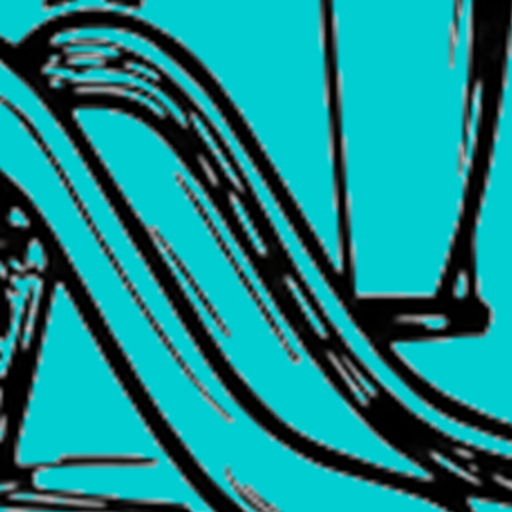
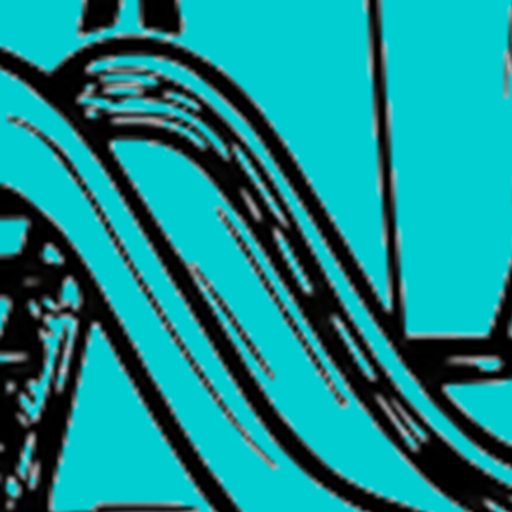
Udpating advertising screen and security

diff --git a/server/scripts/syncWebsiteAppIcon.js b/server/scripts/syncWebsiteAppIcon.js
@@ -5,6 +5,7 @@
  *
  * Outputs:
  * - `playplace-app-icon.png`: square app-style icon for marketing surfaces
+ * - `play-spotter-site-icon.png`: padded square icon for the website header
  * - `play-spotter-favicon.png`: transparent foreground mark for favicon usage
  * - `play-spotter-nav-logo.png`: header lockup for website nav usage
  *
@@ -18,6 +19,7 @@ const sharp = require('sharp');
 
 const REPO_ROOT = path.join(__dirname, '..', '..');
 const OUT_FULL = path.join(REPO_ROOT, 'website', 'public', 'playplace-app-icon.png');
+const OUT_SITE_SQUARE = path.join(REPO_ROOT, 'website', 'public', 'play-spotter-site-icon.png');
 const OUT_FAVICON = path.join(REPO_ROOT, 'website', 'public', 'play-spotter-favicon.png');
 const OUT_NAV_LOGO = path.join(REPO_ROOT, 'website', 'public', 'play-spotter-nav-logo.png');
 const RES = path.join(REPO_ROOT, 'compose-app', 'composeApp', 'src', 'androidMain', 'res', 'mipmap-xxxhdpi');
@@ -28,6 +30,7 @@ const LUCHT_PLAY_PLACE_FINDER = path.join(REPO_ROOT, '..', '..', 'lucht-applicat
 const BG = { r: 0, g: 206, b: 209 };
 const TRIM_THRESHOLD = 14;
 const BRANDING_FOREGROUND_ZOOM = 3.2;
+const WEBSITE_SQUARE_SCALE = 0.78;
 
 function hasBranding1024() {
   return fs.existsSync(FG1024) && fs.existsSync(BG1024);
@@ -56,6 +59,25 @@ async function buildBrandingAppIconPngBuffer(size) {
     .toBuffer();
 
   return sharp(body).resize(size, size, { fit: 'fill' }).png().toBuffer();
+}
+
+async function buildWebsiteSquareIconPngBuffer(size) {
+  const appIcon = await buildBrandingAppIconPngBuffer(size);
+  const innerSize = Math.round(size * WEBSITE_SQUARE_SCALE);
+  return sharp(appIcon)
+    .resize(innerSize, innerSize, {
+      fit: 'contain',
+      background: { r: 0, g: 0, b: 0, alpha: 0 },
+    })
+    .extend({
+      top: Math.floor((size - innerSize) / 2),
+      bottom: Math.ceil((size - innerSize) / 2),
+      left: Math.floor((size - innerSize) / 2),
+      right: Math.ceil((size - innerSize) / 2),
+      background: { r: 0, g: 0, b: 0, alpha: 0 },
+    })
+    .png()
+    .toBuffer();
 }
 
 async function buildBrandingForegroundMarkBuffer(size) {
@@ -210,8 +232,10 @@ async function main() {
 
   if (hasBranding1024()) {
     const appIconBuf = await buildBrandingAppIconPngBuffer(size);
+    const siteSquareBuf = await buildWebsiteSquareIconPngBuffer(size);
     const markBuf = await buildBrandingForegroundMarkBuffer(size);
     await fs.promises.writeFile(OUT_FULL, appIconBuf);
+    await fs.promises.writeFile(OUT_SITE_SQUARE, siteSquareBuf);
     await fs.promises.writeFile(OUT_FAVICON, markBuf);
     const navLogoPath = pickNavLogoPath();
     if (navLogoPath) {
@@ -221,10 +245,12 @@ async function main() {
       'syncWebsiteAppIcon: wrote',
       path.relative(REPO_ROOT, OUT_FULL),
       ',',
+      path.relative(REPO_ROOT, OUT_SITE_SQUARE),
+      ',',
       path.relative(REPO_ROOT, OUT_FAVICON),
       'and',
       path.relative(REPO_ROOT, OUT_NAV_LOGO),
-      'from branding/android-launcher-res (adaptive icon + transparent mark + nav logo)',
+      'from branding/android-launcher-res (adaptive icon + padded website icon + transparent mark + nav logo)',
     );
     copyPlayIconToLuchtMarketing();
     return;
@@ -244,6 +270,21 @@ async function main() {
   } else {
     await writeFullLockupSquare(OUT_FULL, fullPath, size);
     console.log('syncWebsiteAppIcon: wrote', OUT_FULL, 'from', path.relative(REPO_ROOT, fullPath));
+    await sharp(OUT_FULL)
+      .resize(Math.round(size * WEBSITE_SQUARE_SCALE), Math.round(size * WEBSITE_SQUARE_SCALE), {
+        fit: 'contain',
+        background: { r: 0, g: 0, b: 0, alpha: 0 },
+      })
+      .extend({
+        top: Math.floor((size - Math.round(size * WEBSITE_SQUARE_SCALE)) / 2),
+        bottom: Math.ceil((size - Math.round(size * WEBSITE_SQUARE_SCALE)) / 2),
+        left: Math.floor((size - Math.round(size * WEBSITE_SQUARE_SCALE)) / 2),
+        right: Math.ceil((size - Math.round(size * WEBSITE_SQUARE_SCALE)) / 2),
+        background: { r: 0, g: 0, b: 0, alpha: 0 },
+      })
+      .png()
+      .toFile(OUT_SITE_SQUARE);
+    console.log('syncWebsiteAppIcon: wrote', OUT_SITE_SQUARE, 'from', path.relative(REPO_ROOT, fullPath));
   }
 
   const favPath = pickFaviconSourcePath();
@@ -272,9 +313,11 @@ module.exports = {
   pickNavLogoPath,
   REPO_ROOT,
   OUT_FULL,
+  OUT_SITE_SQUARE,
   rasterAfterTrim,
   hasBranding1024,
   buildBrandingAppIconPngBuffer,
+  buildWebsiteSquareIconPngBuffer,
   buildBrandingForegroundMarkBuffer,
   BRANDING_RES,
   FG1024,

diff --git a/website/app/components/BrandMark.js b/website/app/components/BrandMark.js
@@ -3,7 +3,7 @@ export default function BrandMark({ className = 'nav-logo-mark' }) {
   return (
     <img
       className={className}
-      src="/playplace-app-icon.png"
+      src="/play-spotter-site-icon.png"
       alt="Play Spotter"
       decoding="async"
     />
